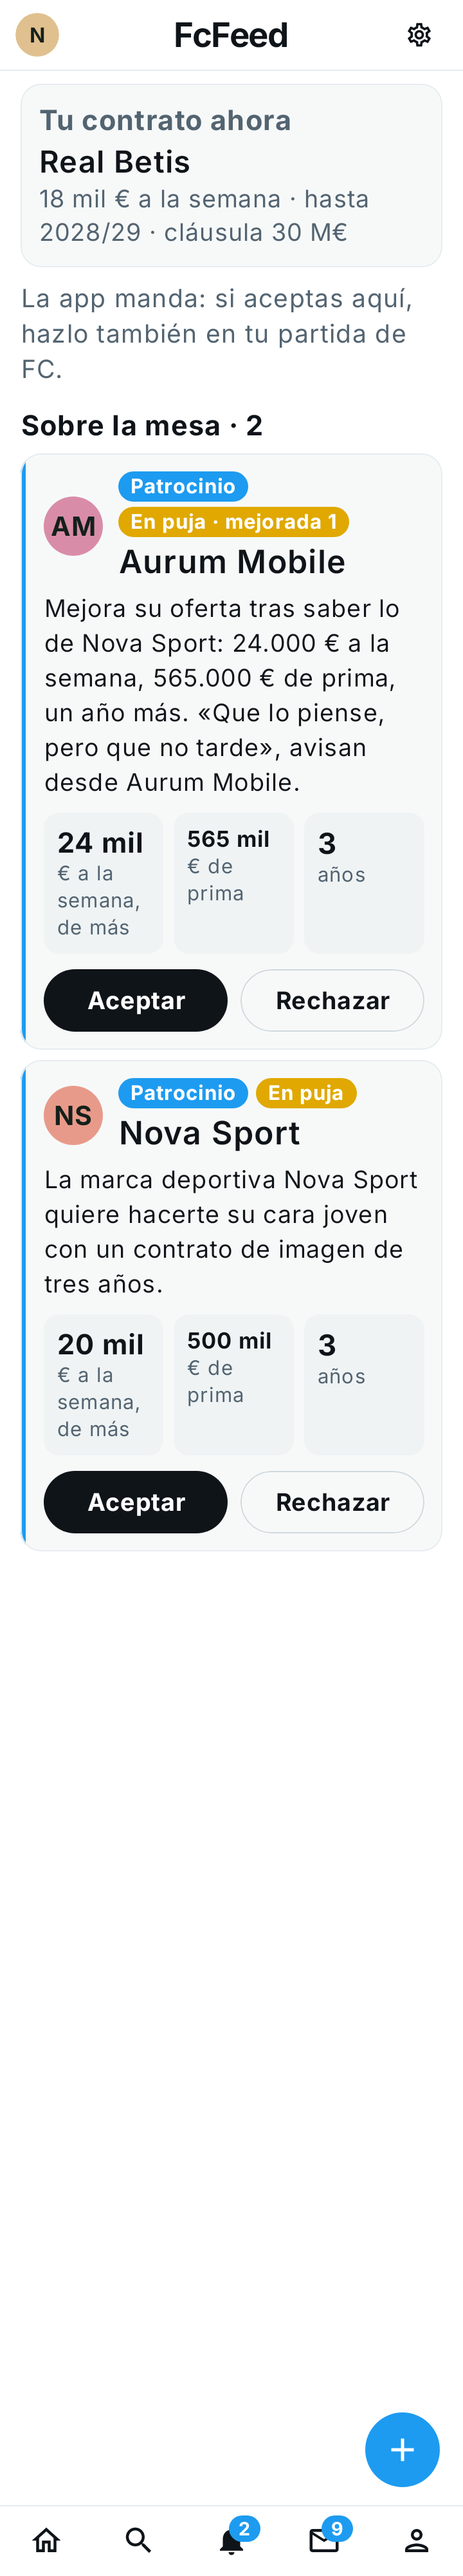
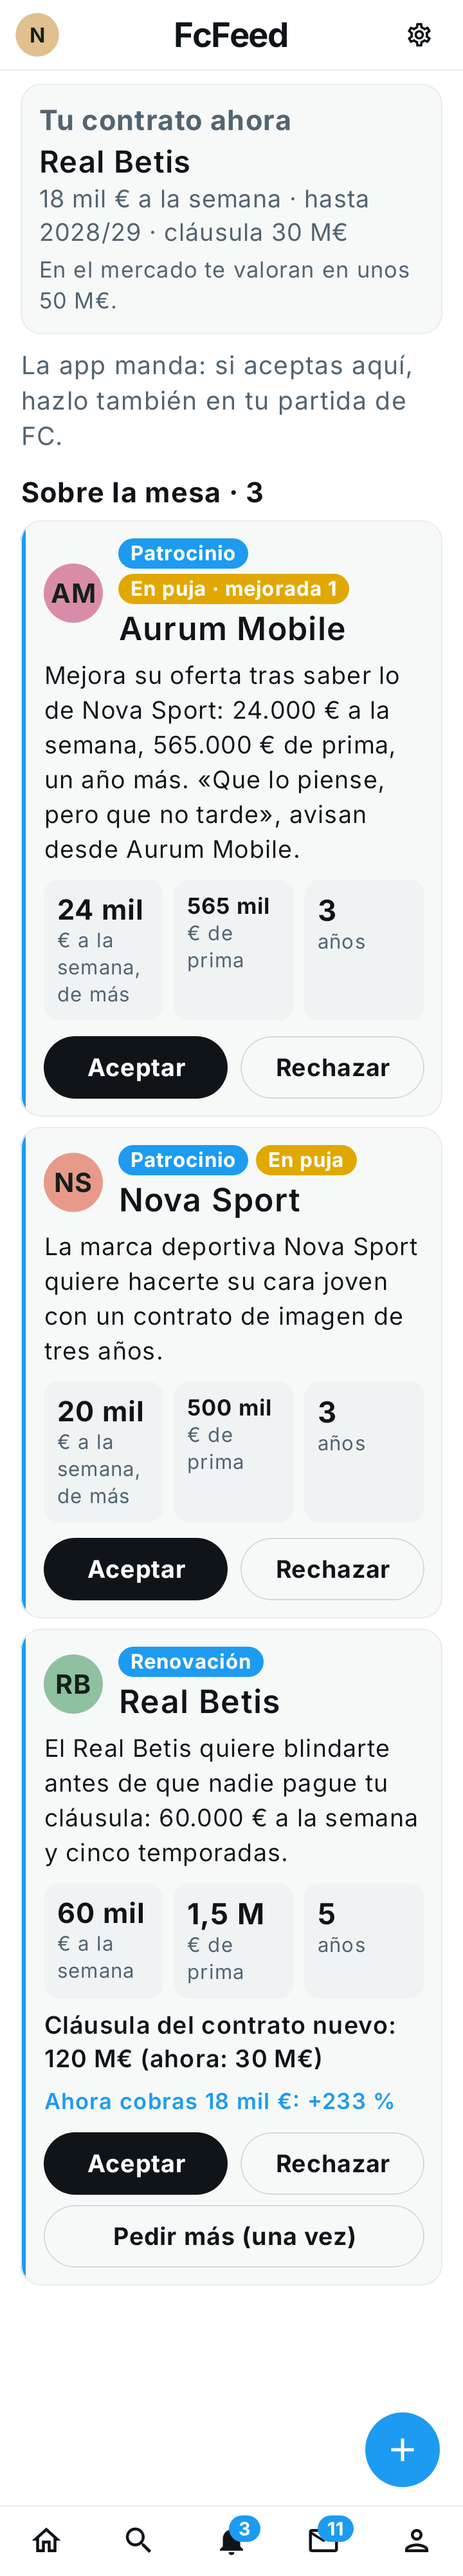
FcFeed 0.11.0: las cláusulas importan (y si es una ganga, llueven ofertas)
Las ofertas de traspaso y renovación traen la cláusula del contrato
nuevo, que se ve y se aplica al aceptar. La app calcula lo que vales en
el mercado; si tu cláusula es una ganga, Claude lo sabe, las ofertas
llueven y tu club quiere blindarte con una cláusula mucho más alta.

Claude-Session: https://claude.ai/code/session_01Q4uywen3nuzUg5CTwJaCY5

diff --git a/shai/src/main/java/com/gonzalo/shai/Narrador.kt b/shai/src/main/java/com/gonzalo/shai/Narrador.kt
@@ -71,6 +71,7 @@ Reglas que no se rompen nunca:
                 "(le quedan ${Contratos.quedan(c, u.temporada)} temporadas contando esta), cláusula de ${Formato.euros(c.clausula)}" +
                 (if (c.porGol > 0) ", ${Formato.euros(c.porGol)} por gol" else "") + (if (c.objetivos.isNotBlank()) ". Objetivos: ${c.objetivos}" else "") +
                 (if (u.patrocinio > 0) ". Patrocinios: ${Formato.euros(u.patrocinio)} a la semana" else "") + ".")
+        appendLine("- " + mercado(u))
         appendLine("- Dinero: ${Formato.euros(u.dinero)}; patrimonio: ${Formato.euros(u.patrimonio)}")
         appendLine("- Fuera del campo (0-100): " + Fuera.TODOS.joinToString(", ") { (k, n) -> "$n ${u.valorFuera(k)}" })
         if (u.bienes.isNotEmpty()) appendLine("- Tiene: " + u.bienes.joinToString(", ") { it.nombre })
@@ -169,6 +170,23 @@ OJO: ESTE PARTIDO ES CON LA SELECCIÓN${sel?.let { " DE ${it.uppercase()}" } ?: 
         return partes.joinToString("; ").ifBlank { null }
     }
 
+    /** Lo que vale y lo que dice su cláusula: si es una ganga, el mercado se mueve. */
+    fun mercado(u: Universo): String {
+        val v = Contratos.valorMercado(u)
+        val c = u.contrato
+        return "En el mercado: los clubes le valoran en unos ${Formato.eurosCorto(v)}" + when {
+            c == null -> "; es agente libre: cualquiera puede ficharle sin pagar nada."
+            Contratos.ganga(u) -> ". SU CLÁUSULA (${Formato.eurosCorto(c.clausula)}) ES UNA GANGA para lo que vale ahora: cualquier club puede pagarla y llevárselo sin negociar. Eso tiene que notarse: clubes grandes que preguntan o que la pagan, la prensa hablando de ello, su club con miedo y queriendo renovarle con una cláusula mucho más alta, su agente frotándose las manos."
+            else -> "; su cláusula es de ${Formato.eurosCorto(c.clausula)}."
+        }
+    }
+
+    /** Lo que se pide de las ofertas (con la cláusula y, si es una ganga, que lluevan). */
+    private fun comoOfertas(u: Universo) = (if (Contratos.ganga(u))
+        "Ofertas: SU CLÁUSULA ES UNA GANGA (${Formato.eurosCorto(u.contrato!!.clausula)} para alguien que vale unos ${Formato.eurosCorto(Contratos.valorMercado(u))}): tienen que llover. De 2 a 3: traspasos de clubes reales grandes que pagarían la cláusula (dilo en el texto) y, si no la tiene abierta ya, una renovación de su club para blindarle con una cláusula mucho más alta."
+    else "Ofertas: solo si encajan de verdad con su nivel de ahora, su rendimiento y su momento (lo normal es ninguna; como mucho una o dos).") +
+        " Salario en euros a la semana, prima en euros de una vez, años de contrato y, en traspasos y renovaciones, «clausula»: la cláusula de rescisión del contrato nuevo en euros (realista para su nivel y su edad; en una renovación para blindarle, mucho más alta que la de ahora); en «texto», por qué le quieren y qué le ofrecen de verdad (minutos, proyecto, escaparate), con las mismas cifras que pones en sus campos. ${Rangos.texto(u.nivelActual)}"
+
     /** Con cuántas decisiones abiertas ya no se le ponen más. */
     const val MAX_ABIERTAS = 2
 
@@ -211,7 +229,7 @@ OJO: ESTE PARTIDO ES CON LA SELECCIÓN${sel?.let { " DE ${it.uppercase()}" } ?: 
         "relaciones" to lista(obj("nombre" to TEXTO, "cambio" to ENTERO)), "rivales" to lista(RIVAL))
     private val DECISION = obj("hay" to SINO, "de" to TEXTO, "titulo" to TEXTO, "contexto" to TEXTO, "en_juego" to TEXTO, "pregunta" to TEXTO, "opciones" to lista(TEXTO))
     private val OFERTA = obj("de" to TEXTO, "tipo" to enumerado("traspaso", "cesion", "renovacion", "patrocinio", "banquillo"),
-        "salario_semanal" to ENTERO, "prima" to ENTERO, "anios" to ENTERO, "texto" to TEXTO)
+        "salario_semanal" to ENTERO, "prima" to ENTERO, "anios" to ENTERO, "clausula" to ENTERO, "texto" to TEXTO)
     private val PRENSA = obj("cabecera" to TEXTO, "titular" to TEXTO, "entradilla" to TEXTO, "articulo" to TEXTO,
         "secundarios" to lista(obj("titular" to TEXTO, "entradilla" to TEXTO)))
 
@@ -279,7 +297,7 @@ GENTE NUEVA: con su nivel de ahora (${u.nivelActual.nombre.lowercase()}) entra g
         appendLine("""
 Escribe:
 - La portada del día después en un diario deportivo inventado que le cubra según su nivel (local o nacional; internacional si es una estrella): cabecera, titular, entradilla (1-2 frases) y la noticia entera en «articulo» (3 párrafos separados por una línea en blanco, unas 220-300 palabras: qué hizo con las cifras que te ha dado, qué significa para él y su club, qué se dice en la grada y en el vestuario, y algo de fuera del campo). Y 2 o 3 «secundarios» (titular y entradilla de 1-2 frases), alguno de fuera del campo.
-- Ofertas: solo si encajan de verdad con su nivel de ahora, su rendimiento y su momento (lo normal es ninguna; como mucho una o dos). Salario en euros a la semana, prima en euros de una vez, años de contrato; en «texto», por qué le quieren y qué le ofrecen de verdad (minutos, proyecto, escaparate), con las mismas cifras que pones en sus campos. ${Rangos.texto(u.nivelActual)}
+- ${comoOfertas(u)}
 - $COMO_DECISION Que salga de este partido o de lo que ya viene pasando (unas declaraciones, una fiesta para celebrarlo, un rifirrafe en redes, un mensaje que contestar...).
 - Efectos de este partido en lo de fuera del campo (fama, afición, disciplina, carisma: pequeños, de -5 a +5) y en su gente (por su nombre exacto). Dinero: 0 salvo que haya un motivo (una prima por objetivos, una multa del club por algo de fuera del campo).
 - Gente nueva solo si aparece alguien que vaya a importar (inventado).
@@ -391,7 +409,7 @@ Es una EDICIÓN ESPECIAL: lo más gordo que le ha pasado hasta ahora. Escribe:
 - ${comoRed(u, "De 16 a 22")} OJO: sus seguidores y sus «me gusta» de ahora son de ANTES de esto: con este ruido los posts gordos se disparan (varias veces lo normal, y más cuanto más lejos llega el ruido), y la tendencia lleva muchos posts. Que se note la locura: gente que no le conocía, cuentas de otros países si el ruido llega, memes, la afición de su club, la de su selección, escépticos.
 - $COMO_MENSAJES De 3 a 5 conversaciones: su familia, su representante, sus amigos de siempre (un grupo), alguna chica o alguna ex que reaparece, alguien que de repente se acuerda de él.
 - $COMO_DECISION Una que salga de esto (la presión, una entrevista, un patrocinio, un mensaje que contestar), salvo que ya tenga ${MAX_ABIERTAS} o más pendientes.
-- «ofertas»: de 0 a 3 que salgan de esto (marcas que le quieren ya, algún club que pregunta), con lo que pediría con el nivel que pongas en «nivel_tras» (y el texto, con esas mismas cifras). Por nivel:\n${Nivel.entries.filter { it.ordinal >= u.nivelActual.ordinal && it.ordinal <= (if (ruido.sinTope) ruido.tope else u.nivelActual).ordinal }.joinToString("\n") { "  · " + Rangos.texto(it) }}
+- «ofertas»: de 0 a 3 que salgan de esto (marcas que le quieren ya, algún club que pregunta; si su cláusula es una ganga para lo que vale tras esto, de 2 a 3 y alguna de un club grande que la pagaría), con lo que pediría con el nivel que pongas en «nivel_tras» (y el texto, con esas mismas cifras); en traspasos y renovaciones, «clausula» del contrato nuevo. Por nivel:\n${Nivel.entries.filter { it.ordinal >= u.nivelActual.ordinal && it.ordinal <= (if (ruido.sinTope) ruido.tope else u.nivelActual).ordinal }.joinToString("\n") { "  · " + Rangos.texto(it) }}
 - «nivel_tras»: el nivel en el que le deja esto (${Nivel.entries.joinToString(", ") { it.name }}), nunca por debajo del de ahora y ${if (ruido.sinTope) "como mucho ${ruido.tope.name}" else "el de ahora (con este ruido no cambia)"}.
 - Efectos en lo de fuera del campo: afición, disciplina y carisma (de -10 a +10) y su gente (por su nombre exacto, de -15 a +15); «fama»: 0 (la pone la app con el nivel). Dinero: 0 salvo un motivo claro.
 - «gente_nueva»: de 0 a 2 personas INVENTADAS que aparecen por esto (un representante de los grandes, una influencer, un periodista que le persigue…), con nombre y apellido, su rol y una nota corta; y en «mensajes», por cada una, una conversación nueva (su nombre como chat, «id» vacío) en la que se presenta.
@@ -502,7 +520,7 @@ El equipo del jugador es ${u.club}${if (u.modo == Rol.JUGADOR) " y su jugador es
     /** Las ofertas, con el sueldo y la prima dentro de lo que pide su nivel de ahora ([Rangos]). */
     private fun ofertas(l: Any?, n: Nivel?) = l.comoLista().map { it.comoMapa() }.map { m ->
         Oferta(Universo.nuevoId("o"), m["de"].comoTexto(), m["tipo"].comoTexto().ifBlank { "traspaso" }, m["salario_semanal"].comoLong().coerceAtLeast(0),
-            m["prima"].comoLong().coerceAtLeast(0), m["anios"].comoLong().toInt().coerceIn(0, 10), m["texto"].comoTexto()).let { if (n != null) Rangos.recorta(it, n) else it }
+            m["prima"].comoLong().coerceAtLeast(0), m["anios"].comoLong().toInt().coerceIn(0, 10), m["texto"].comoTexto(), clausula = m["clausula"].comoLong().coerceAtLeast(0)).let { if (n != null) Rangos.recorta(it, n) else it }
     }.filter { it.de.isNotBlank() }.take(3)
 
     fun decision(m: Map<String, Any?>): Decision? {

diff --git a/shai/src/main/java/com/gonzalo/shai/Contratos.kt b/shai/src/main/java/com/gonzalo/shai/Contratos.kt
@@ -53,6 +53,7 @@ object Contratos {
         return (h - a + 1).coerceAtLeast(0)
     }
 
+    fun clausula(n: Nivel, sueldo: Long): Long = clausulaDe(n, sueldo)
     private fun clausulaDe(n: Nivel, sueldo: Long): Long = when (n) {
         Nivel.CANTERANO -> 5_000_000L; Nivel.PROMESA -> 30_000_000L; Nivel.TITULAR -> 80_000_000L; Nivel.ESTRELLA -> 200_000_000L; Nivel.LEYENDA -> 500_000_000L
     }.coerceAtLeast(sueldo * 52 * 4)
@@ -96,17 +97,36 @@ object Contratos {
         val anios = o.anios.coerceIn(1, 8)
         return when (o.tipo) {
             "traspaso", "banquillo" -> Contrato(o.de, o.salario.takeIf { it > 0 } ?: u.contrato?.sueldo ?: u.salario, t, mas(t, anios - 1), prima = o.prima,
-                clausula = clausulaDe(n, o.salario), porGol = if (u.modo == Rol.JUGADOR && n != Nivel.CANTERANO) redondea(o.salario * 0.08) else 0,
+                clausula = o.clausula.takeIf { it > 0 } ?: clausulaDe(n, o.salario), porGol = if (u.modo == Rol.JUGADOR && n != Nivel.CANTERANO) redondea(o.salario * 0.08) else 0,
                 objetivos = objetivosDe(n, u.modo), imagen = imagenDe(n))
             "cesion" -> Contrato(o.de, o.salario.takeIf { it > 0 } ?: u.contrato?.sueldo ?: u.salario, t, t, prima = o.prima, nota = "Cedido por ${u.contrato?.club ?: u.club}",
                 imagen = imagenDe(n))
             "renovacion" -> (u.contrato ?: primero(n, u.club, t, u.modo)).let { c ->
-                c.copy(sueldo = o.salario.takeIf { it > 0 } ?: c.sueldo, desde = t, hasta = mas(t, anios - 1), prima = o.prima, clausula = clausulaDe(n, o.salario),
+                c.copy(sueldo = o.salario.takeIf { it > 0 } ?: c.sueldo, desde = t, hasta = mas(t, anios - 1), prima = o.prima, clausula = o.clausula.takeIf { it > 0 } ?: clausulaDe(n, o.salario),
                     porGol = if (c.porGol > 0 || (u.modo == Rol.JUGADOR && n != Nivel.CANTERANO)) redondea((o.salario.takeIf { it > 0 } ?: c.sueldo) * 0.08) else 0,
                     objetivos = objetivosDe(n, u.modo).ifBlank { c.objetivos }, imagen = imagenDe(n), nota = "")
             }
             else -> null
         }
+    }
+
+    /**
+     * Lo que vale en el mercado ahora (lo que pediría su club por él): lo de su nivel, más si está en racha o acaba de pasar algo gordo,
+     * y más cuanto más joven. Si su cláusula está muy por debajo, es una ganga ([ganga]) y los clubes lo saben.
+     */
+    fun valorMercado(u: Universo): Long {
+        val n = u.nivelActual
+        val base = clausulaDe(n, u.contrato?.sueldo ?: u.salario) / 2
+        val edad = u.personaje.edad
+        val joven = when { edad <= 18 -> 1.5; edad <= 21 -> 1.25; edad <= 27 -> 1.0; edad <= 30 -> 0.7; else -> 0.4 }
+        return redondea(base * joven)
+    }
+
+    /** Su cláusula es una ganga: está por debajo de la mitad de lo que vale (con un mínimo de nivel: un canterano normal no lo es). */
+    fun ganga(u: Universo): Boolean {
+        val c = u.contrato ?: return false
+        if (c.clausula <= 0 || u.nivelActual == Nivel.CANTERANO) return false
+        return c.clausula < valorMercado(u) / 2
     }
 
     /** Lo que se cobra en una jornada: el sueldo del contrato, los patrocinios y, si marcó, la prima por gol. */
@@ -115,6 +135,7 @@ object Contratos {
     /** Lo que le llega después de que su agente se quede su parte ([Universo.comision]). */
     fun sinComision(u: Universo, bruto: Long): Long = if (u.comision <= 0 || u.suAgente == null) bruto else bruto - bruto * u.comision / 100
 
+    private fun redondeaCl(x: Long): Long = if (x >= 10_000_000) Math.round(x / 5_000_000.0) * 5_000_000 else Math.round(x / 500_000.0) * 500_000
     private fun redondea(x: Double): Long = when {
         x >= 100_000 -> Math.round(x / 5_000) * 5_000
         x >= 10_000 -> Math.round(x / 500) * 500
@@ -134,6 +155,7 @@ object Contratos {
             q <= 1 -> "te queda esta temporada de contrato"
             q == 2 && partidosTemporada >= 19 -> "te queda temporada y media de contrato"
             c.sueldo * 13 < Rangos.de(u.nivelActual).sueldo.first * 10 -> "tu nivel ya está muy por encima de lo que cobras"
+            ganga(u) -> "tu cláusula (${Formato.eurosCorto(c.clausula)}) es una ganga para lo que vales ahora y el club quiere blindarte"
             else -> null
         }
     }
@@ -161,7 +183,11 @@ object Contratos {
             mejora < 0 -> "El ${u.club} te ofrece renovar, pero con rebaja: ${Formato.euros(sueldo)} a la semana (${Formato.euros(c.sueldo)} ahora) y $anios temporadas. Dicen que «hay que ajustarse a lo que está dando»."
             else -> "El ${u.club} te ofrece renovar en las mismas condiciones: ${Formato.euros(sueldo)} a la semana y $anios temporadas más."
         }
-        return Rangos.recorta(Oferta(Universo.nuevoId("o"), u.club, "renovacion", sueldo, redondea(sueldo * if (forma > 0) 8.0 else 3.0), anios, texto), n)
+        // La cláusula nueva: la de su nivel (y si la de ahora es una ganga, el club la sube para blindarle)
+        val cl = maxOf(clausulaDe(n, sueldo), if (ganga(u)) valorMercado(u) * 3 / 2 else 0L)
+        return Rangos.recorta(Oferta(Universo.nuevoId("o"), u.club, "renovacion", sueldo, redondea(sueldo * if (forma > 0) 8.0 else 3.0), anios,
+            texto.replace("y una cláusula nueva", "y una cláusula de ${Formato.eurosCorto(redondeaCl(cl))}") + (c.clausula.takeIf { it > 0 }?.let { " Tu cláusula ahora: ${Formato.eurosCorto(it)}." } ?: ""),
+            clausula = redondeaCl(cl)), n)
     }
 
     /**

diff --git a/shai/src/main/java/com/gonzalo/shai/Modelo.kt b/shai/src/main/java/com/gonzalo/shai/Modelo.kt
@@ -88,7 +88,10 @@ object Rangos {
     fun recorta(o: Oferta, n: Nivel): Oferta { val r = de(n)
         val x = if (o.tipo == "patrocinio") o.copy(salario = o.salario.coerceIn(0, r.patroSemana), prima = o.prima.coerceIn(0, r.patroPrima))
             else o.copy(salario = if (o.salario <= 0) 0 else o.salario.coerceIn(r.sueldo.first, r.sueldo.last), prima = o.prima.coerceIn(0, r.primaMax))
-        return x.copy(de = limpiaNombre(x.de), texto = cuadraTexto(x.texto, x.salario, x.prima))
+        // La cláusula del contrato que ofrece: la que diga (con un suelo) o, si no dice, la que toca a su nivel
+        val cl = if (x.tipo == "traspaso" || x.tipo == "renovacion" || x.tipo == "banquillo")
+            (if (x.clausula > 0) x.clausula else Contratos.clausula(n, x.salario)).coerceAtLeast(x.salario * 52 * 2) else 0
+        return x.copy(de = limpiaNombre(x.de), texto = cuadraTexto(x.texto, x.salario, x.prima), clausula = cl)
     }
 
     /** «Nova Sport (marca inventada)» → «Nova Sport»: dentro de la historia todo es real. */
@@ -472,9 +475,11 @@ data class Oferta(val id: String, val de: String, val tipo: String, val salario:
                   /** Ya se pidió más una vez (no se puede volver a pedir). */
                   val negociada: Boolean = false,
                   /** En una puja ([Pujas]): la oferta que esta mejora (o de la que se retira), y en qué ronda va. */
-                  val antes: String = "", val ronda: Int = 0) {
+                  val antes: String = "", val ronda: Int = 0,
+                  /** La cláusula de rescisión del contrato que ofrece (traspaso, renovación, banquillo). 0: la pone la app según el nivel. */
+                  val clausula: Long = 0) {
     fun aMapa(): Map<String, Any?> = mapOf("id" to id, "d" to de, "t" to tipo, "s" to salario, "p" to prima, "a" to anios.toLong(), "x" to texto, "e" to estado, "ng" to negociada,
-        "an" to antes, "ro" to ronda.toLong())
+        "an" to antes, "ro" to ronda.toLong(), "cu" to clausula)
     /** Lo que vale entera (para comparar en una puja): lo de todas las semanas de sus años y la prima. */
     val valor: Long get() = salario * 52 * maxOf(1, anios) + prima
     val cambiaDeClub: Boolean get() = tipo == "traspaso" || tipo == "cesion" || tipo == "banquillo"
@@ -485,7 +490,7 @@ data class Oferta(val id: String, val de: String, val tipo: String, val salario:
         /** En una puja: la otra la ha mejorado (sale la nueva) o se ha retirado. */
         const val MEJORADA = "mejorada"; const val RETIRADA = "retirada"
         fun de(m: Map<String, Any?>) = Oferta(m["id"].comoTexto(), m["d"].comoTexto(), m["t"].comoTexto(), m["s"].comoLong(), m["p"].comoLong(), m["a"].comoLong().toInt(), m["x"].comoTexto(), m["e"].comoTexto().ifBlank { ABIERTA }, m["ng"].comoBool(),
-            m["an"].comoTexto(), m["ro"].comoLong().toInt())
+            m["an"].comoTexto(), m["ro"].comoLong().toInt(), m["cu"].comoLong())
     }
 }
 

diff --git a/shai/src/main/java/com/gonzalo/shai/PantCarrera.kt b/shai/src/main/java/com/gonzalo/shai/PantCarrera.kt
@@ -665,6 +665,8 @@ private fun TabOfertas(u: Universo, entradas: List<Entrada>) {
             Text(c.club, color = Charcoal, fontFamily = Display, fontWeight = FontWeight.SemiBold, fontSize = 20.sp, lineHeight = 24.sp, modifier = Modifier.padding(top = 4.dp))
             Text("${Formato.eurosCorto(c.sueldo)} a la semana · hasta ${c.hasta}" + (if (c.clausula > 0) " · cláusula ${Formato.eurosCorto(c.clausula)}" else ""),
                 color = Muted, fontFamily = Body, fontSize = 14.sp, lineHeight = 19.sp, modifier = Modifier.padding(top = 2.dp))
+            Text("En el mercado te valoran en unos ${Formato.eurosCorto(Contratos.valorMercado(u))}" + if (Contratos.ganga(u)) ": tu cláusula es una ganga y los clubes lo saben." else ".",
+                color = if (Contratos.ganga(u)) Coral else Muted, fontFamily = Body, fontWeight = if (Contratos.ganga(u)) FontWeight.SemiBold else FontWeight.Normal, fontSize = 13.sp, lineHeight = 18.sp, modifier = Modifier.padding(top = 4.dp))
         }
     } ?: Tarjeta(bordeIzq = Acento) { TituloTarjeta("Eres agente libre"); TextoTarjeta("Cualquier club puede ficharte.", Modifier.padding(top = 2.dp)) }
     Nota("La app manda: si aceptas aquí, hazlo también en tu partida de FC.", Modifier.padding(top = 10.dp, bottom = 4.dp))
@@ -697,6 +699,8 @@ private fun TabOfertas(u: Universo, entradas: List<Entrada>) {
                 if (o.prima > 0) DatoOferta(sinEuro(Formato.eurosCorto(o.prima)), "€ de prima", Modifier.weight(1f).fillMaxHeight())
                 if (o.anios > 0) DatoOferta("${o.anios}", if (o.anios == 1) "año" else "años", Modifier.weight(1f).fillMaxHeight())
             }
+            if (o.clausula > 0) Text("Cláusula del contrato nuevo: ${Formato.eurosCorto(o.clausula)}" + (u.contrato?.clausula?.takeIf { it > 0 && o.tipo == "renovacion" }?.let { " (ahora: ${Formato.eurosCorto(it)})" } ?: ""),
+                color = Charcoal, fontFamily = Body, fontWeight = FontWeight.SemiBold, fontSize = 14.sp, lineHeight = 19.sp, modifier = Modifier.padding(top = 8.dp))
             if (o.salario > 0 && o.tipo != "patrocinio" && u.salario > 0) {
                 val pct = Math.round((o.salario - u.salario) * 100.0 / u.salario)
                 Text("Ahora cobras ${Formato.eurosCorto(u.salario)}: " + (if (pct >= 0) "+$pct %" else "$pct %"), color = if (pct >= 0) Acento else Coral,

diff --git a/shai/src/test/java/com/gonzalo/shai/ClausulasTest.kt b/shai/src/test/java/com/gonzalo/shai/ClausulasTest.kt
@@ -1,0 +1,33 @@
+package com.gonzalo.shai
+
+import org.junit.Assert.*
+import org.junit.Test
+
+/** Las cláusulas: las ofertas dicen la suya, se aplica al aceptar y, si la de ahora es una ganga, el mercado lo sabe. */
+class ClausulasTest {
+    /** Un chaval de 16 años, titular de golpe (tras un hecho histórico), con la cláusula de canterano (5 M€). */
+    private fun chaval(): Universo = Ejemplo.universo().let { it.copy(personaje = it.personaje.copy(edad = 16),
+        contrato = Contratos.primero(Nivel.CANTERANO, it.club, "2026/27", Rol.JUGADOR), fuera = it.fuera + (Fuera.FAMA to 45)) }
+
+    @Test fun conLaClausulaDeCanteranoYNivelDeTitularEsUnaGanga() {
+        val u = chaval()
+        assertEquals(5_000_000L, u.contrato!!.clausula)
+        assertTrue(Contratos.valorMercado(u) > 10_000_000)
+        assertTrue(Contratos.ganga(u))
+        assertTrue(Narrador.contexto(u, emptyList(), emptyList()).contains("ES UNA GANGA"))
+        // Y su club quiere blindarle: la renovación trae una cláusula mucho más alta
+        assertNotNull(Contratos.motivoRenovacion(u, 3))
+        assertFalse(Contratos.ganga(Ejemplo.universo().let { it.copy(contrato = Contratos.primero(Nivel.CANTERANO, it.club, "2026/27", Rol.JUGADOR), fuera = it.fuera + (Fuera.FAMA to 5)) }))
+    }
+
+    @Test fun laClausulaDeLaOfertaSeVeYSeAplica() {
+        val u = chaval()
+        val o = Rangos.recorta(Oferta("o", u.club, "renovacion", 60_000, 1_000_000, 5, "El club quiere renovarte.", clausula = 120_000_000), Nivel.TITULAR)
+        assertEquals(120_000_000L, o.clausula)
+        assertEquals(120_000_000L, Vida.acepta(u, o).contrato!!.clausula)
+        // Sin cláusula dicha: la de su nivel; en un patrocinio, ninguna
+        assertTrue(Rangos.recorta(o.copy(clausula = 0), Nivel.TITULAR).clausula > 0)
+        assertEquals(0L, Rangos.recorta(Oferta("p", "Marca", "patrocinio", 10_000, 0, 2, ""), Nivel.TITULAR).clausula)
+        assertEquals(o, Oferta.de(o.aMapa()))
+    }
+}

diff --git a/shai/src/test/java/com/gonzalo/shai/CapturasHechoTest.kt b/shai/src/test/java/com/gonzalo/shai/CapturasHechoTest.kt
@@ -78,7 +78,8 @@ abstract class CapturasHechoBase {
         val uu = Carreras.de(u0.id)!!
         val ofs = Carreras.guarda(Entrada(Universo.nuevoId("e"), uu.id, TipoEntrada.EVENTO, System.currentTimeMillis(), uu.paso, "Dos marcas te quieren", ofertas = listOf(
             Oferta("pn", "Nova Sport", "patrocinio", 20_000, 500_000, 3, "La marca deportiva Nova Sport quiere hacerte su cara joven con un contrato de imagen de tres años."),
-            Oferta("pa", "Aurum Mobile", "patrocinio", 15_000, 300_000, 2, "La tecnológica Aurum Mobile te propone un patrocinio de dos años para una campaña global."))))
+            Oferta("pa", "Aurum Mobile", "patrocinio", 15_000, 300_000, 2, "La tecnológica Aurum Mobile te propone un patrocinio de dos años para una campaña global."),
+            Rangos.recorta(Oferta("pr", "Real Betis", "renovacion", 60_000, 1_500_000, 5, "El Real Betis quiere blindarte antes de que nadie pague tu cláusula: 60.000 € a la semana y cinco temporadas.", clausula = 120_000_000), Nivel.TITULAR))))
         val ahora = System.currentTimeMillis()
         val pj = (0 until 300).asSequence().mapNotNull { Pujas.calcula(Carreras.de(u0.id)!!, Carreras.entradasDe(u0.id), ahora, ahora, kotlin.random.Random(it)) }
             .first { it.ofertas.first().estado == Oferta.ABIERTA }

diff --git a/shai/src/main/java/com/gonzalo/shai/PantAjustes.kt b/shai/src/main/java/com/gonzalo/shai/PantAjustes.kt
@@ -24,7 +24,7 @@ import kotlinx.coroutines.Dispatchers
 import kotlinx.coroutines.launch
 import kotlinx.coroutines.withContext
 
-const val VERSION = "0.10.1"
+const val VERSION = "0.11.0"
 
 /** «Ajustes»: Aspecto · IA · Actualizar. Todo se guarda en este móvil. */
 @Composable

diff --git a/docs/fcfeed/HISTORIA.md b/docs/fcfeed/HISTORIA.md
@@ -5,6 +5,15 @@ los mensajes, la prensa, las ofertas, la vida, el dinero), con Claude y tu clave
 siempre: se instala encima). Icono: un bocadillo blanco con un balón, sobre negro (`herramientas/apartes/iconos.py`).
 **No es de la familia** desde la 0.6.0 (antes se llamaba Shai): sin cuenta, sin revista; todo se guarda en el móvil.
 
+## 0.11.0
+
+- **Las cláusulas importan.** Cada oferta de traspaso, renovación o banquillo trae la cláusula de rescisión del contrato nuevo (la propone
+  Claude; si no, la de tu nivel) y se ve en la oferta («Cláusula del contrato nuevo: 120 M€ (ahora: 5 M€)»). Al aceptar, esa es tu cláusula.
+- **Lo que vales y la ganga.** La app calcula lo que te valoran en el mercado (tu nivel, tu edad: cuanto más joven, más) y lo enseña en
+  «Tu contrato ahora». Si tu cláusula está por debajo de la mitad, es una GANGA: Claude lo sabe en todo lo que escribe (clubes grandes que
+  la pagarían, la prensa hablando de ello, tu club con miedo), las ofertas tienen que llover (de 2 a 3, traspasos que pagan la cláusula y una
+  renovación para blindarte) y tu club te ofrece renovar con una cláusula mucho más alta (`Contratos.valorMercado`, `Contratos.ganga`).
+
 ## 0.10.1
 
 - **Tu versión del partido, en las tres plantillas.** «Lo que pasó» solo estaba en la completa; ahora es «Tu versión del partido
